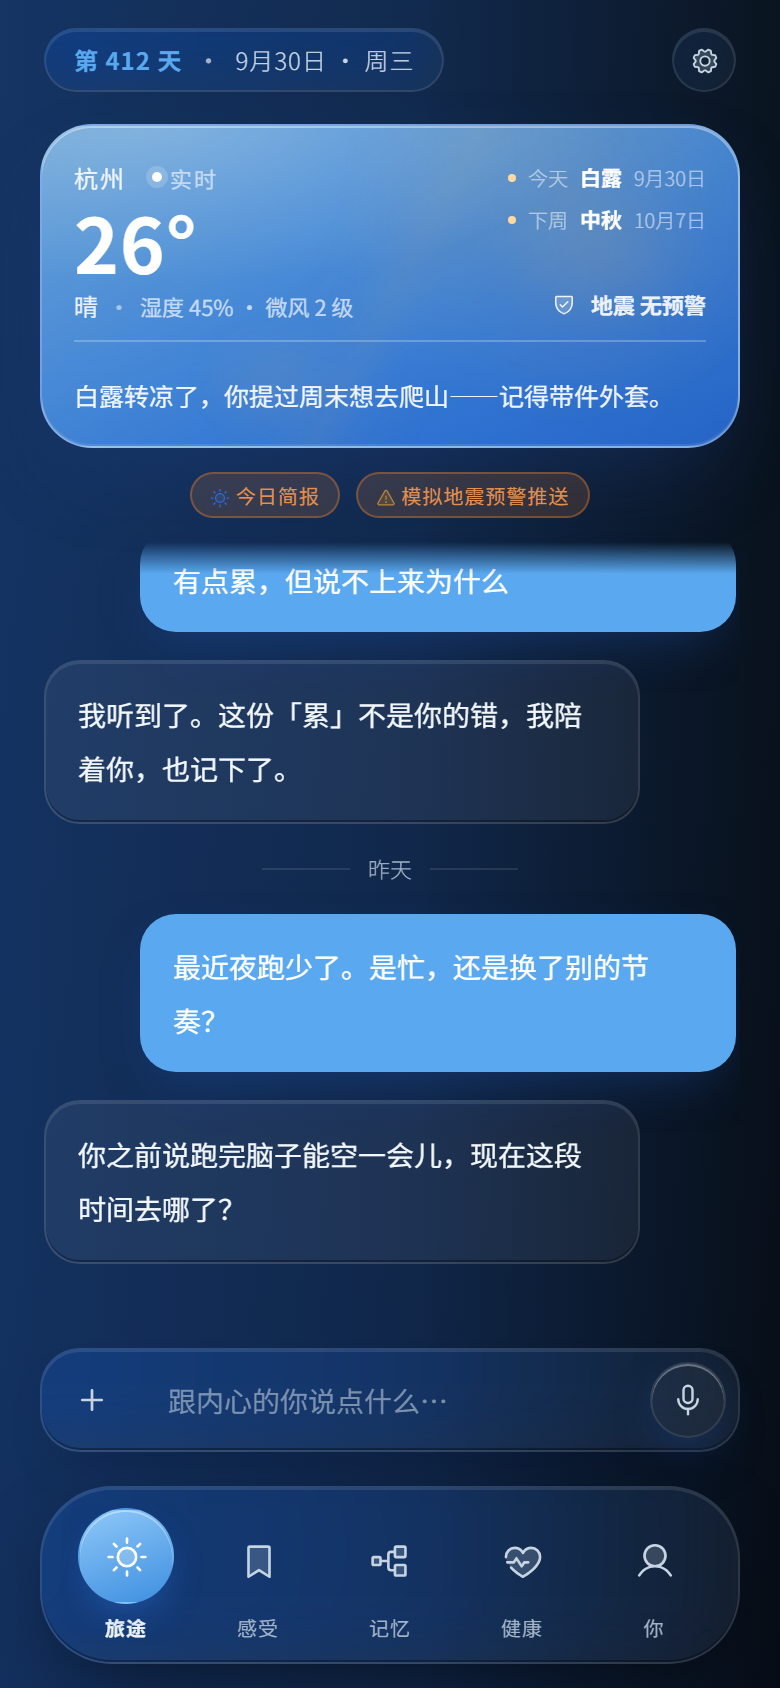
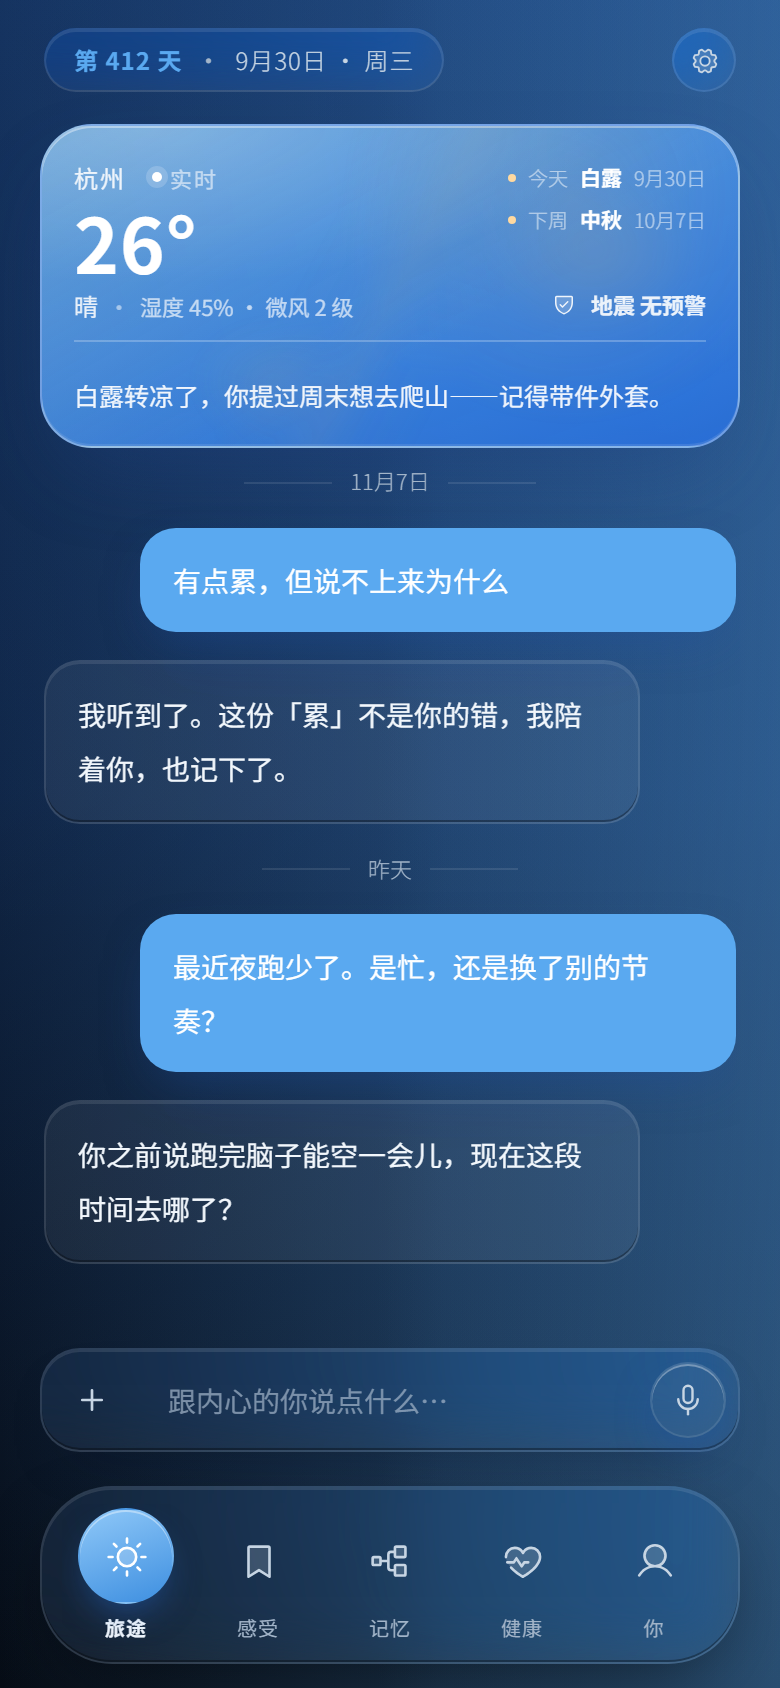
feat: 删演示胶囊 + 真实地震数据与通知 + 聊天区上提

diff --git a/prototype/index.html b/prototype/index.html
@@ -1179,12 +1179,15 @@
 
   /* 路途 · 聊天记录区 */
   /* v74：滚动限位 + 顶部渐隐——消息滑到天气卡下面时柔化淡出，不再硬切半个气泡 */
+  .day-status{position:relative;z-index:4;}
   .chat-log{
     flex:1 1 auto;min-height:0;overflow-y:auto;padding:2px 2px 28px;
+    /* v111：上边界提到天气卡下方，只留 10px 做顶部渐隐 */
+    margin-top:-26px;
     overscroll-behavior:contain;                 /* 滚到头就停，不做橡皮筋回弹 */
     /* v90：上下对称的渐隐遮罩——内容滑到输入框边缘时淡出，而不是被硬切一半 */
-    -webkit-mask-image:linear-gradient(to bottom, transparent 0, #000 16px, #000 calc(100% - 32px), transparent 100%);
-    mask-image:linear-gradient(to bottom, transparent 0, #000 16px, #000 calc(100% - 32px), transparent 100%);
+    -webkit-mask-image:linear-gradient(to bottom, transparent 0, #000 10px, #000 calc(100% - 32px), transparent 100%);
+    mask-image:linear-gradient(to bottom, transparent 0, #000 10px, #000 calc(100% - 32px), transparent 100%);
   }
   .chat-log::-webkit-scrollbar{width:0;}
   /* v85：列表错开入场（同一容器的兄弟依次出现，最多约 0.5s） */
@@ -2695,8 +2698,6 @@
 
 
       <div class="demo-row" data-page-node-id="LQcwQyt3rwFp5x0qEIdFd4">
-        <button type="button" class="demo-quake" onclick="proactiveCare()" data-page-node-id="zExi2FC6QWyjCUshgwfeV7"><svg class="ic-ico c-blue" viewBox="0 0 256 256" aria-hidden="true"><path d="M184,128a56,56,0,1,1-56-56A56,56,0,0,1,184,128Z" opacity="0.2"/><path d="M120,40V16a8,8,0,0,1,16,0V40a8,8,0,0,1-16,0Zm72,88a64,64,0,1,1-64-64A64.07,64.07,0,0,1,192,128Zm-16,0a48,48,0,1,0-48,48A48.05,48.05,0,0,0,176,128ZM58.34,69.66A8,8,0,0,0,69.66,58.34l-16-16A8,8,0,0,0,42.34,53.66Zm0,116.68-16,16a8,8,0,0,0,11.32,11.32l16-16a8,8,0,0,0-11.32-11.32ZM192,72a8,8,0,0,0,5.66-2.34l16-16a8,8,0,0,0-11.32-11.32l-16,16A8,8,0,0,0,192,72Zm5.66,114.34a8,8,0,0,0-11.32,11.32l16,16a8,8,0,0,0,11.32-11.32ZM48,128a8,8,0,0,0-8-8H16a8,8,0,0,0,0,16H40A8,8,0,0,0,48,128Zm80,80a8,8,0,0,0-8,8v24a8,8,0,0,0,16,0V216A8,8,0,0,0,128,208Zm112-88H216a8,8,0,0,0,0,16h24a8,8,0,0,0,0-16Z"/></svg> 今日简报</button>
-        <button type="button" class="demo-quake" onclick="demoQuake()" data-page-node-id="WsgGvSq7pXZ1e52MYFPn3C"><svg class="ic-ico c-amber" viewBox="0 0 256 256" aria-hidden="true"><path d="M215.46,216H40.54C27.92,216,20,202.79,26.13,192.09L113.59,40.22c6.3-11,22.52-11,28.82,0l87.46,151.87C236,202.79,228.08,216,215.46,216Z" opacity="0.2"/><path d="M236.8,188.09,149.35,36.22h0a24.76,24.76,0,0,0-42.7,0L19.2,188.09a23.51,23.51,0,0,0,0,23.72A24.35,24.35,0,0,0,40.55,224h174.9a24.35,24.35,0,0,0,21.33-12.19A23.51,23.51,0,0,0,236.8,188.09ZM222.93,203.8a8.5,8.5,0,0,1-7.48,4.2H40.55a8.5,8.5,0,0,1-7.48-4.2,7.59,7.59,0,0,1,0-7.72L120.52,44.21a8.75,8.75,0,0,1,15,0l87.45,151.87A7.59,7.59,0,0,1,222.93,203.8ZM120,144V104a8,8,0,0,1,16,0v40a8,8,0,0,1-16,0Zm20,36a12,12,0,1,1-12-12A12,12,0,0,1,140,180Z"/></svg> 模拟地震预警推送</button>
       </div>
 
       <div class="chat-log" id="chatLog" data-page-node-id="byGSYn8A4vr2HoX9GQnOGp">
@@ -8130,6 +8131,81 @@
       return '<svg class="ic-ico ' + (cls || 'c-blue') + '" viewBox="' + it.vb + '" aria-hidden="true" style="' + (size ? 'width:' + size + 'px;height:' + size + 'px;' : '') + '">' + it.body + '</svg>';
     }
     window.Icons = { svg: svg, has: function(k){ return !!RAW[k]; } };
+  })();
+
+  /* ==========================================================================
+     v111 · QuakeWatch：真实地震数据 + 系统通知
+     数据源：USGS 实时目录（覆盖中国区域 bbox）。CENC 官网为 React SPA，
+     没有可直接跨域调用的公开接口，浏览器直连会被拦；要接 CENC 必须由
+     服务端代理转发（工程版做这一层，原型里先接 USGS 保证是真实数据）。
+     命中后：① 聊天里推一张卡片 ② 已授权时弹系统通知（锁屏/通知中心/横幅
+     取决于系统；页面没打开时收不到，那需要 PWA + 推送服务器）。
+     ========================================================================== */
+  (function(){
+    var LAST = 'la.quakeLast';
+    var ON = 'la.quakeWatch';
+    var BBOX = { minlatitude: 18, maxlatitude: 54, minlongitude: 73, maxlongitude: 135 };
+    function enabled(){ try{ return localStorage.getItem(ON) !== '0'; }catch(e){ return true; } }
+    function lastId(){ try{ return localStorage.getItem(LAST) || ''; }catch(e){ return ''; } }
+    function setLast(id){ try{ localStorage.setItem(LAST, id); }catch(e){} }
+
+    function askNotify(){
+      if(!('Notification' in window)) return;
+      if(Notification.permission === 'default'){
+        try{ Notification.requestPermission(); }catch(e){}
+      }
+    }
+    function notify(q){
+      if(!('Notification' in window) || Notification.permission !== 'granted') return;
+      try{
+        new Notification('地震预警 · M' + q.mag, {
+          body: q.place + ' · ' + Math.round(q.depth) + 'km 深',
+          tag: 'quake-' + q.id,
+          requireInteraction: true
+        });
+      }catch(e){}
+    }
+
+    function pushToChat(q){
+      if(typeof appendMsg !== 'function') return;
+      var d = new Date(q.time);
+      var hh = ('0' + d.getHours()).slice(-2) + ':' + ('0' + d.getMinutes()).slice(-2);
+      appendMsg('me', '【地震】' + hh + ' ' + q.place + '，M' + q.mag + '，深 ' + Math.round(q.depth) + ' 公里。' +
+        (q.dist != null ? '离你约 ' + Math.round(q.dist) + ' 公里。' : '') + '如果感到晃动，先护住头颈，别急着下楼。');
+    }
+
+    function fetchQuakes(){
+      if(!enabled()) return;
+      var since = new Date(Date.now() - 24 * 3600 * 1000).toISOString();
+      var url = 'https://earthquake.usgs.gov/fdsnws/event/1/query?format=geojson' +
+        '&starttime=' + since + '&minmagnitude=4.0&limit=20' +
+        '&minlatitude=' + BBOX.minlatitude + '&maxlatitude=' + BBOX.maxlatitude +
+        '&minlongitude=' + BBOX.minlongitude + '&maxlongitude=' + BBOX.maxlongitude;
+      fetch(url, { cache: 'no-store' }).then(function(r){ return r.json(); }).then(function(j){
+        var list = (j.features || []).map(function(f){
+          var p = f.properties, c = f.geometry.coordinates;
+          return { id: f.id, mag: p.mag, place: p.place, time: p.time, lon: c[0], lat: c[1], depth: c[2] };
+        }).sort(function(a, b){ return b.time - a.time; });
+        if(!list.length) return;
+        var seen = lastId();
+        var fresh = list.filter(function(q){ return q.id !== seen; });
+        if(!fresh.length) return;
+        /* 只对最近 2 小时内、且是这次新出现的推 */
+        var newest = fresh.filter(function(q){ return Date.now() - q.time < 2 * 3600 * 1000; });
+        if(seen){ newest.forEach(function(q){ pushToChat(q); notify(q); }); }
+        setLast(list[0].id);
+      }).catch(function(){ /* 断网静默 */ });
+    }
+
+    window.QuakeWatch = {
+      start: function(){ askNotify(); fetchQuakes(); setInterval(fetchQuakes, 5 * 60 * 1000); },
+      setEnabled: function(on){ try{ localStorage.setItem(ON, on ? '1' : '0'); }catch(e){} if(on) fetchQuakes(); },
+      enabled: enabled
+    };
+    /* 首屏后 3 秒开始轮询，不抢首屏 */
+    if(document.readyState === 'loading'){
+      document.addEventListener('DOMContentLoaded', function(){ setTimeout(function(){ window.QuakeWatch.start(); }, 3000); });
+    } else { setTimeout(function(){ window.QuakeWatch.start(); }, 3000); }
   })();
 
 </script>
